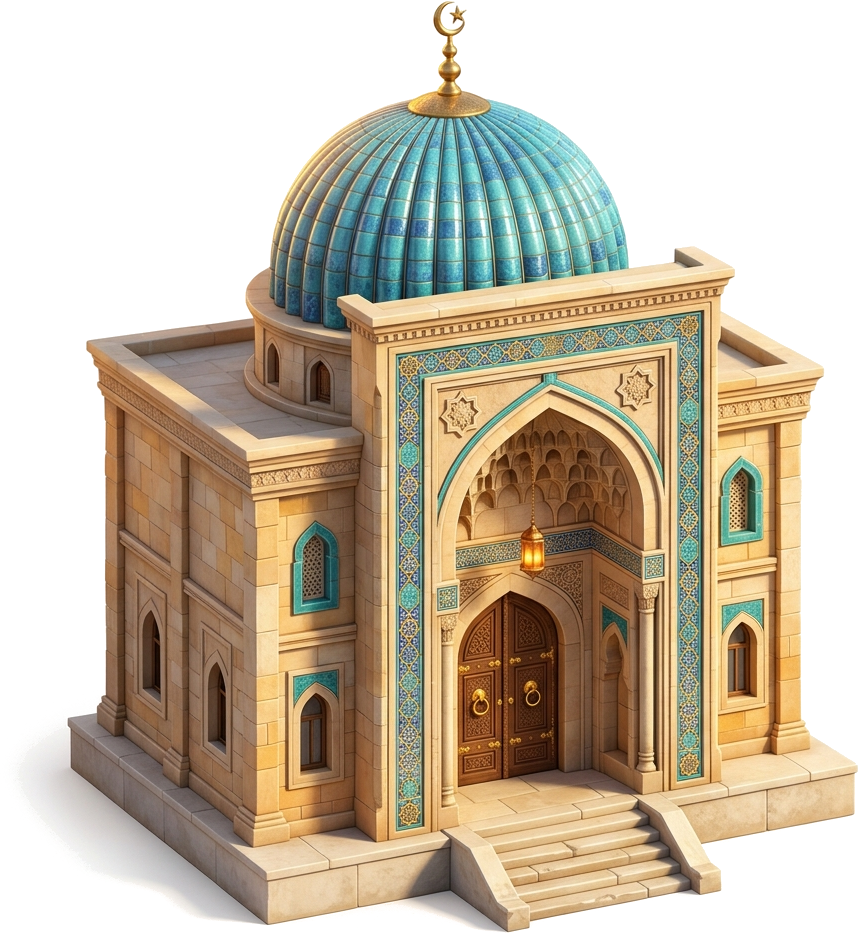
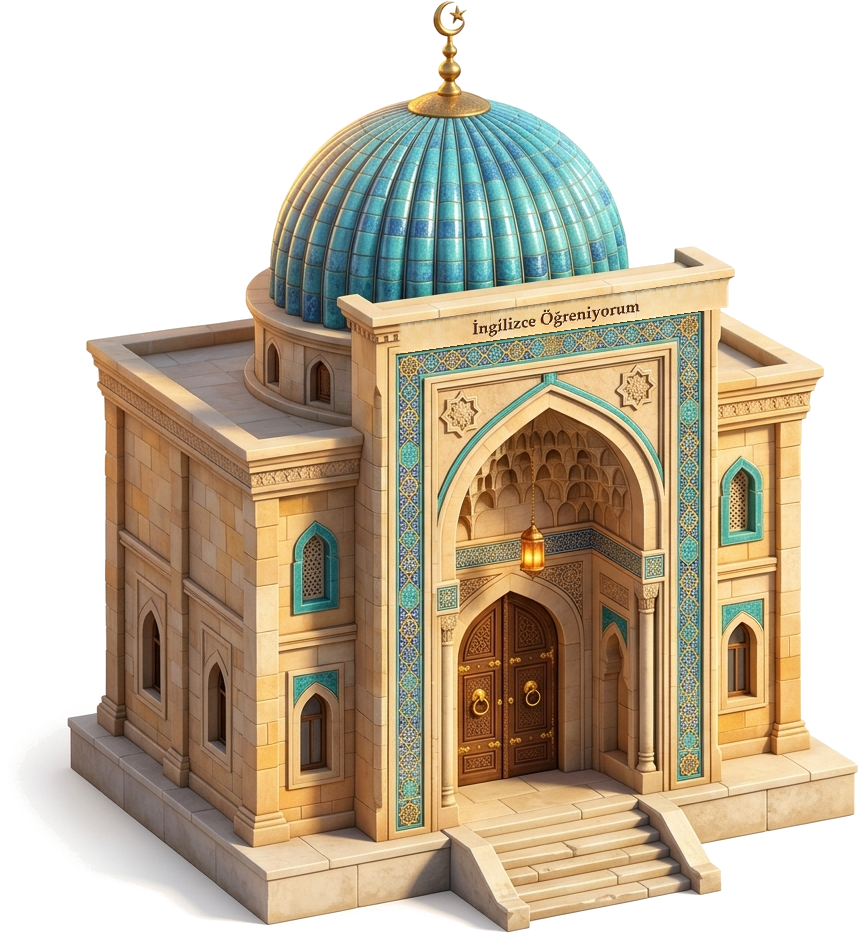
feat(walkable): integrate inscribed english building asset and remove canvas text layer

Changed region(s): [[0.4545, 0.2794, 0.8485, 0.3726]]

diff --git a/src/features/walkable/engine/courtyardSceneRenderer.ts b/src/features/walkable/engine/courtyardSceneRenderer.ts
@@ -1235,9 +1235,6 @@ function drawEnglishBuilding(
     ctx.roundRect(portalCenterX - 45, y + h - 2, 90, 6, 2);
     ctx.fill();
 
-    // 6. Doğrudan Mimari Duvar Yazısı (İki Satırlı Taş Kazıma)
-    drawDirectWallInscription(ctx, portalCenterX, y + 20, CAMPUS_ARCHITECTURAL_INSCRIPTIONS.english, 'sandstone');
-
     ctx.restore();
     return;
   }
@@ -1361,9 +1358,6 @@ function drawEnglishBuilding(
   // Giriş Yan Fenerleri (Selçuklu Kandilleri)
   drawLantern(ctx, portalX - 6, portalY + 22, now);
   drawLantern(ctx, portalX + portalW + 6, portalY + 22, now);
-
-  // 7. Doğrudan Mimari Duvar Yazısı (İki Satırlı Taş Kazıma)
-  drawDirectWallInscription(ctx, x + w / 2, y + 48, CAMPUS_ARCHITECTURAL_INSCRIPTIONS.english, 'sandstone');
 
   ctx.restore();
 }
